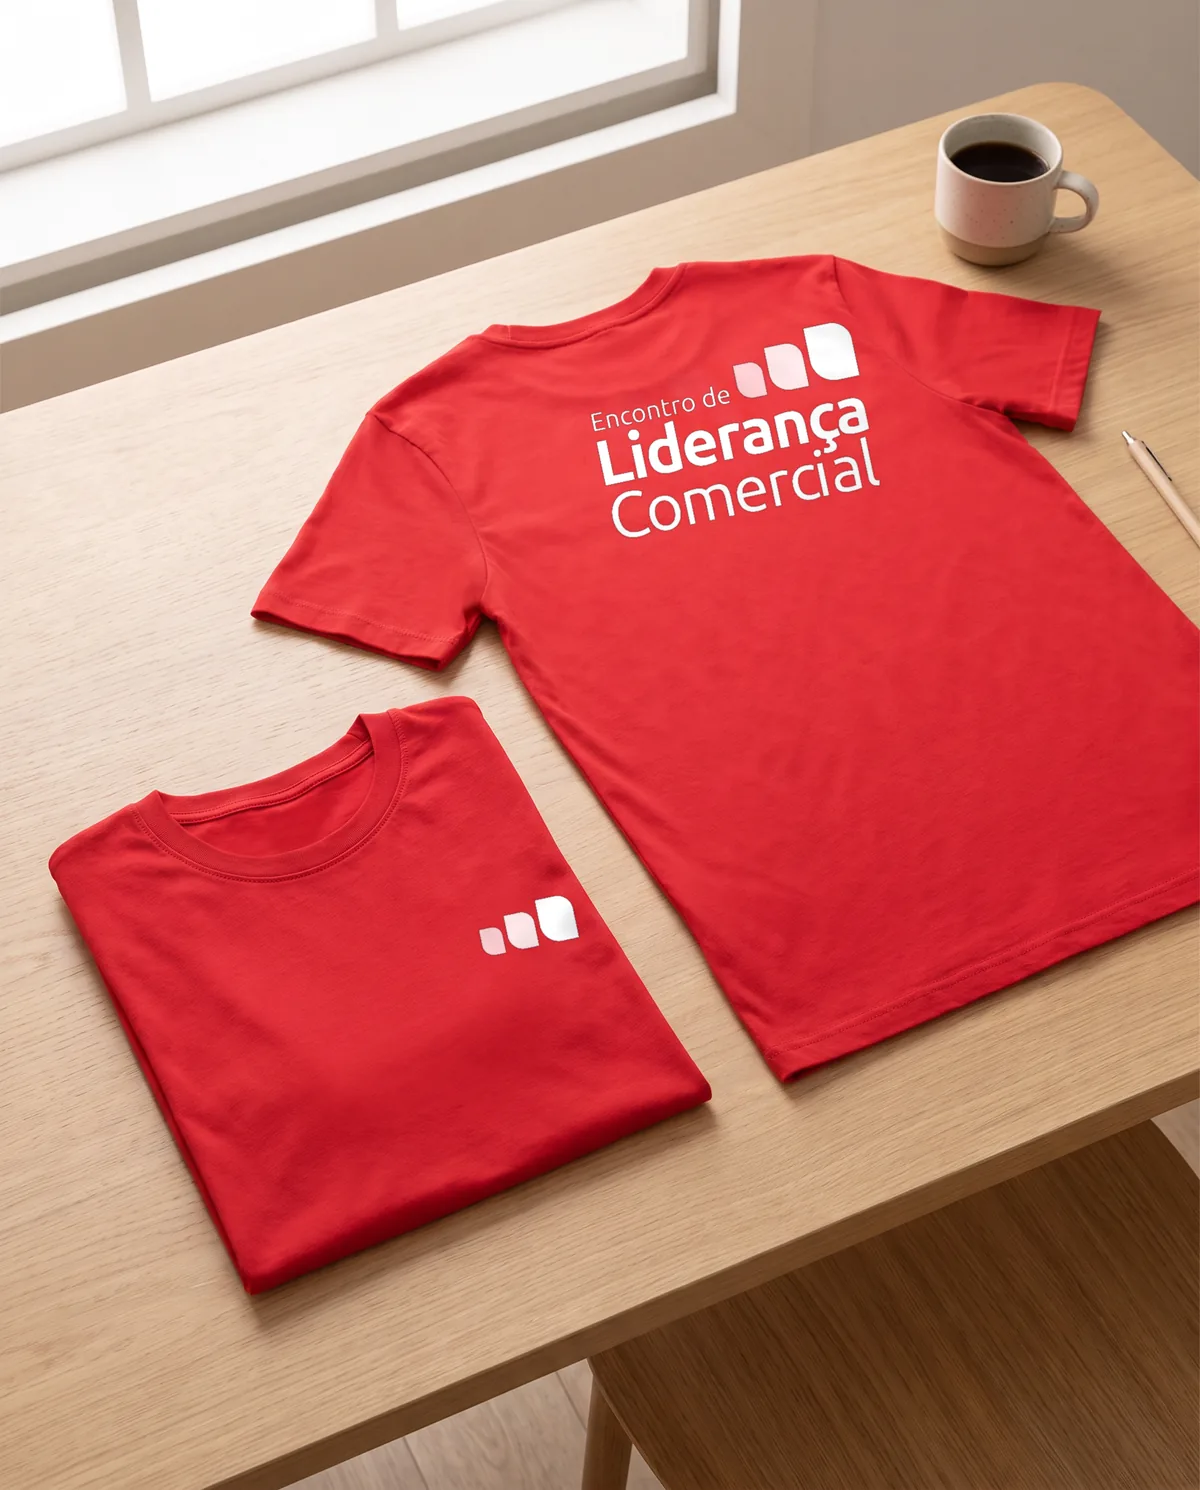
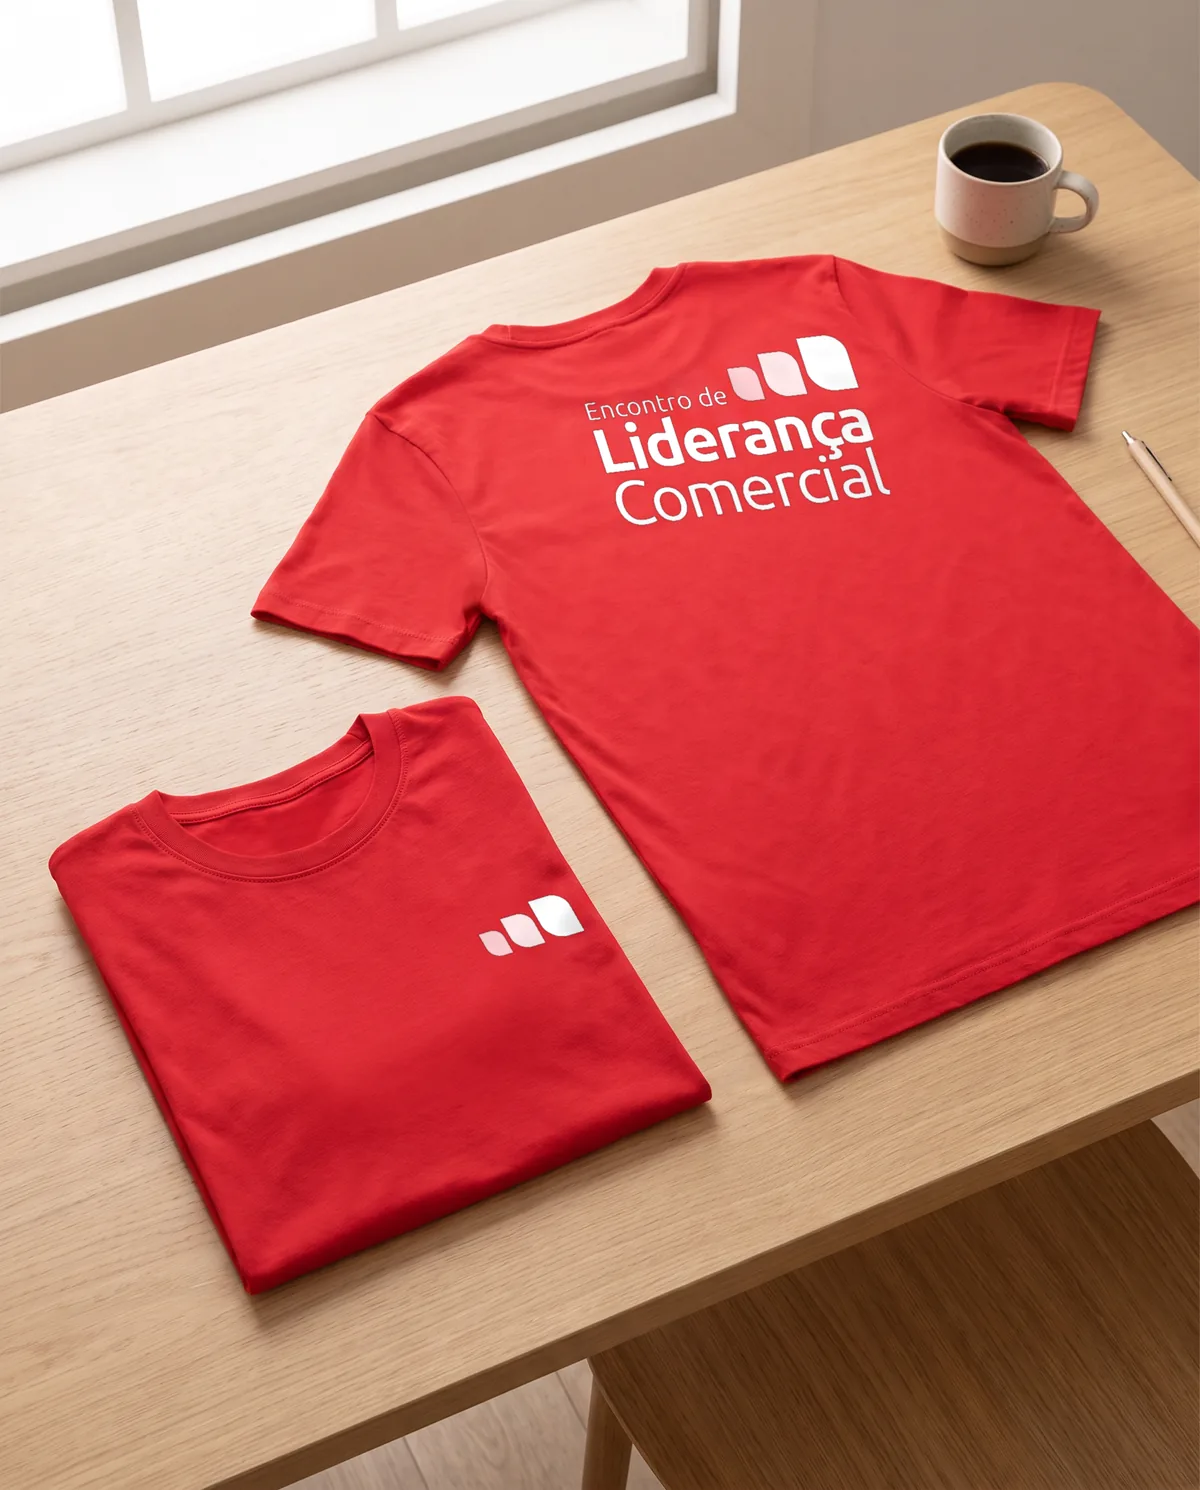
Cores alinhadas e camiseta vermelha certa nos dois selos
As amostras de cor entram e sobem só por CSS (a animação brigava com o
hover e deixava amostras fora da linha). A camiseta vermelha do Selo A e
do Selo B segue a camiseta deitada (costas e peito).

Changed region(s): [[0.4933, 0.2161, 0.74, 0.3705], [0.4008, 0.5866, 0.4933, 0.6483]]

diff --git a/index.html b/index.html
@@ -170,9 +170,15 @@
   /* 7. cores (amostras do mesmo tamanho, sobem no mouse ou no toque) */
   #cores { padding-top: clamp(32px, 4vw, 56px); padding-bottom: clamp(80px, 9vw, 130px); }
   .amostras { display: grid; grid-template-columns: repeat(7, 1fr); gap: 14px; margin-top: 40px; }
+  /* entrada e "subir no mouse" no MESMO movimento só por CSS (19/10, ele: "nas cores está quebrado: duas cores escuras
+     estão mais acima do que os outros"): o GSAP animava o transform e brigava com o hover; a página se reajustando no
+     meio da entrada deixava amostras presas fora da linha */
   .am { border-radius: 22px; aspect-ratio: 1; display: flex; align-items: flex-end; padding: 14px; font-weight: 500; font-size: 13px;
-        transition: transform .35s cubic-bezier(.2,.8,.2,1), box-shadow .35s; box-shadow: 0 6px 18px rgba(91,91,91,.08); }
-  .am:hover, .am.sobe { transform: translateY(-14px); box-shadow: 0 18px 30px rgba(91,91,91,.18); }
+        box-shadow: 0 6px 18px rgba(91,91,91,.08); opacity: 0; transform: translateY(40px);
+        transition: opacity .6s ease, transform .6s cubic-bezier(.34,1.56,.64,1), box-shadow .35s; transition-delay: calc(var(--i, 0) * 70ms); }
+  .amostras.entrou .am { opacity: 1; transform: none; }
+  .amostras.pronta .am { transition: transform .35s cubic-bezier(.2,.8,.2,1), box-shadow .35s; transition-delay: 0s; }
+  .amostras.entrou .am:hover, .amostras.entrou .am.sobe { transform: translateY(-14px); box-shadow: 0 18px 30px rgba(91,91,91,.18); }
   .am.borda { box-shadow: inset 0 0 0 1px rgba(91,91,91,.2), 0 6px 18px rgba(91,91,91,.08); }
 
   /* 8. frase */
@@ -226,7 +232,7 @@
     .fotos-nav b { color: var(--tinta); font-weight: 500; }
     .forma-vis { flex-direction: column; align-items: center; } .forma-vis svg { width: 52vw; } .seta { transform: rotate(90deg); }
     .amostras { grid-template-columns: 1fr; gap: 10px; } .am { aspect-ratio: auto; height: 64px; align-items: center; padding: 0 20px; border-radius: 18px; }
-    .am:hover, .am.sobe { transform: translateX(10px); }
+    .amostras.entrou .am:hover, .amostras.entrou .am.sobe { transform: translateX(10px); }
   }
   @media (prefers-reduced-motion: reduce) { .faixa.a, .faixa.b, .desce i { animation: none; } }
 </style>
@@ -375,13 +381,13 @@
       <div class="rotulo">Na prática</div>
       <h2><span class="l">O encontro</span> <span class="f">inteiro</span></h2>
       <div class="fotos">
-        <figure class="foto larga"><img src="assets/aplic-telao.webp?v=20" alt="Telão do auditório com o selo" loading="lazy"><figcaption>Telão do auditório</figcaption></figure>
-        <figure class="foto alta"><img src="assets/aplic-painel.webp?v=20" alt="Painel para fotos" loading="lazy"><figcaption>Painel para fotos</figcaption></figure>
-        <figure class="foto alta"><img src="assets/aplic-agenda.webp?v=20" alt="Bloquinho e caneta" loading="lazy"><figcaption>Bloquinho e caneta</figcaption></figure>
-        <figure class="foto alta"><img src="assets/aplic-copo-1.webp?v=20" alt="Copo branco no coffee break" loading="lazy"><figcaption>Copo branco</figcaption></figure>
-        <figure class="foto alta"><img src="assets/aplic-copo-2.webp?v=20" alt="Copo vermelho na mão" loading="lazy"><figcaption>Copo vermelho</figcaption></figure>
-        <figure class="foto alta"><img src="assets/aplic-camiseta-1.webp?v=20" alt="Camiseta branca no cabide" loading="lazy"><figcaption>Camiseta branca</figcaption></figure>
-        <figure class="foto alta"><img src="assets/aplic-camiseta-2.webp?v=20" alt="Camiseta vermelha dobrada" loading="lazy"><figcaption>Camiseta vermelha</figcaption></figure>
+        <figure class="foto larga"><img src="assets/aplic-telao.webp?v=21" alt="Telão do auditório com o selo" loading="lazy"><figcaption>Telão do auditório</figcaption></figure>
+        <figure class="foto alta"><img src="assets/aplic-painel.webp?v=21" alt="Painel para fotos" loading="lazy"><figcaption>Painel para fotos</figcaption></figure>
+        <figure class="foto alta"><img src="assets/aplic-agenda.webp?v=21" alt="Bloquinho e caneta" loading="lazy"><figcaption>Bloquinho e caneta</figcaption></figure>
+        <figure class="foto alta"><img src="assets/aplic-copo-1.webp?v=21" alt="Copo branco no coffee break" loading="lazy"><figcaption>Copo branco</figcaption></figure>
+        <figure class="foto alta"><img src="assets/aplic-copo-2.webp?v=21" alt="Copo vermelho na mão" loading="lazy"><figcaption>Copo vermelho</figcaption></figure>
+        <figure class="foto alta"><img src="assets/aplic-camiseta-1.webp?v=21" alt="Camiseta branca no cabide" loading="lazy"><figcaption>Camiseta branca</figcaption></figure>
+        <figure class="foto alta"><img src="assets/aplic-camiseta-2.webp?v=21" alt="Camiseta vermelha dobrada" loading="lazy"><figcaption>Camiseta vermelha</figcaption></figure>
       </div>
       <div class="fotos-nav" aria-hidden="true"><span>Deslize para o lado</span><span class="barra-f"><i></i></span><span><b id="foto-n">1</b> de 7</span></div>
     </div>
@@ -603,6 +609,13 @@ document.querySelectorAll('#barras .barra').forEach(b => b.addEventListener('cli
 }));
 document.querySelectorAll('.am').forEach(a => a.addEventListener('touchstart', () => {
   a.classList.add('sobe'); setTimeout(() => a.classList.remove('sobe'), 700); }, { passive: true }));
+/* amostras entram uma a uma quando aparecem (só CSS; depois de entrar, o hover fica livre) */
+(function () { const box = document.querySelector('.amostras');
+  box.querySelectorAll('.am').forEach((a, i) => a.style.setProperty('--i', i));
+  const entra = () => { box.classList.add('entrou'); setTimeout(() => box.classList.add('pronta'), 1200); };
+  if (REDUZ || !('IntersectionObserver' in window)) return entra();
+  const io = new IntersectionObserver(es => { if (es.some(e => e.isIntersecting)) { entra(); io.disconnect(); } }, { rootMargin: '0px 0px -10% 0px' });
+  io.observe(box); })();
 
 /* montagem: depois das fontes (as medidas do selo dependem delas) */
 window.LAYOUT = document.fonts.ready.then(() => {
@@ -630,7 +643,6 @@ window.LAYOUT = document.fonts.ready.then(() => {
     document.getElementById('cartao-encaixe').dataset.visto = 1;
     gsap.to('#guias line', { strokeDashoffset: 0, duration: 1.2, stagger: 0.25, ease: 'power2.inOut' }); } });
   gsap.from('.grade4 .c', { y: 60, opacity: 0, rotateX: -14, duration: 0.9, stagger: 0.12, ease: 'power3.out', scrollTrigger: { trigger: '.grade4', start: 'top 85%' } });
-  gsap.from('.am', { y: 40, opacity: 0, duration: 0.6, stagger: 0.07, ease: 'back.out(1.8)', scrollTrigger: { trigger: '.amostras', start: 'top 88%' } });
   gsap.fromTo('#frase .w', { opacity: 0.12, y: 20 }, { opacity: 1, y: 0, stagger: 0.25, ease: 'none',
     scrollTrigger: { trigger: '#frase', start: 'top 70%', end: 'center 45%', scrub: true } });
   gsap.utils.toArray('.foto').forEach(f => {
